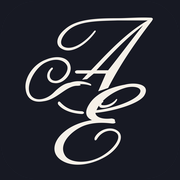
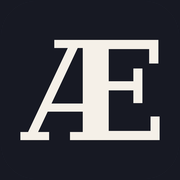
Replace calligraphic monogram with outlined Æ ligature
Use U+00C6 in a cream serif style on the existing dark background.
Regenerate SVG-derived favicon, Apple and web app icons.

Changed region(s): [[0.1111, 0.0833, 0.8889, 0.9167]]

diff --git a/README.md b/README.md
@@ -97,11 +97,11 @@ Windows-скрипты `build.cmd`, `akimova.ru.cmd`, `akimova.pro.cmd` такж
 основаны на одноимённых шаблонах Gallery (MIT); при обновлении темы сравните их
 с новой версией. `layouts/robots.txt` добавляет ссылку на sitemap своего домена.
 
-## Иконки AE
+## Иконки Æ
 
-Исходник — `static/favicon.svg`: каллиграфическая монограмма A и E с росчерками,
-перерисованная в векторе по образцу, без зависимости от шрифтов;
-цвет букв `#f5f0e8`, фон `#171923`.
+Исходник — `static/favicon.svg`: лигатура **Æ (U+00C6)** с засечками,
+начертание DejaVu Serif Bold, переведённое в векторные контуры без зависимости
+от установленных шрифтов. Цвет знака — кремовый `#f5f0e8`, фон — тёмный `#171923`.
 
 В репозитории уже есть SVG, ICO (16/32/48 px), PNG (16/32/48/96 px),
 Apple touch icon (180 px), web app icons (192/512 px), отдельная maskable-иконка
